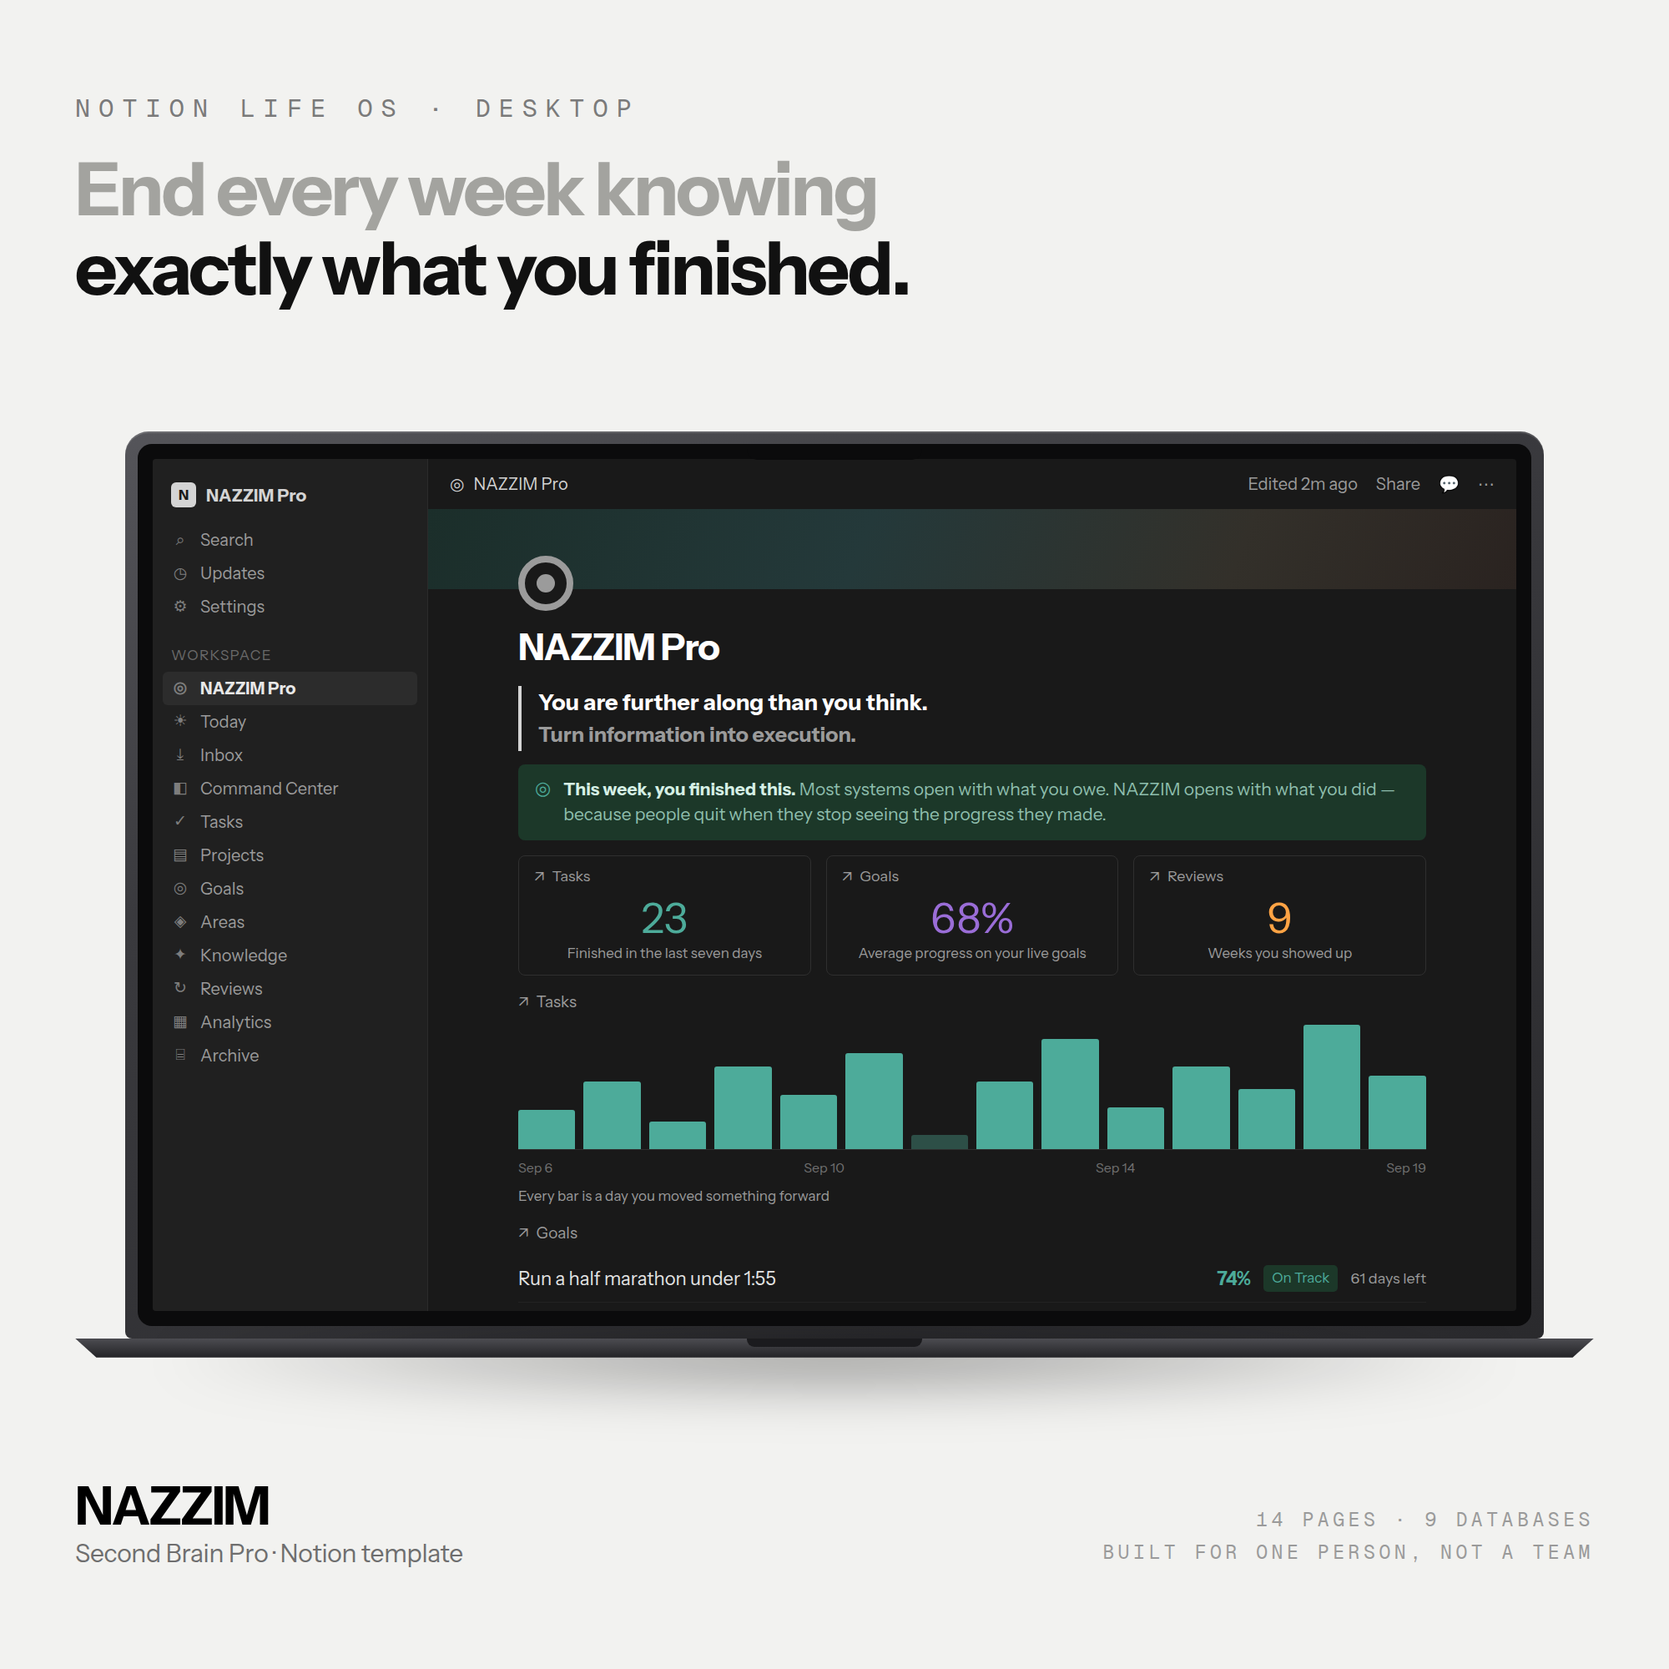
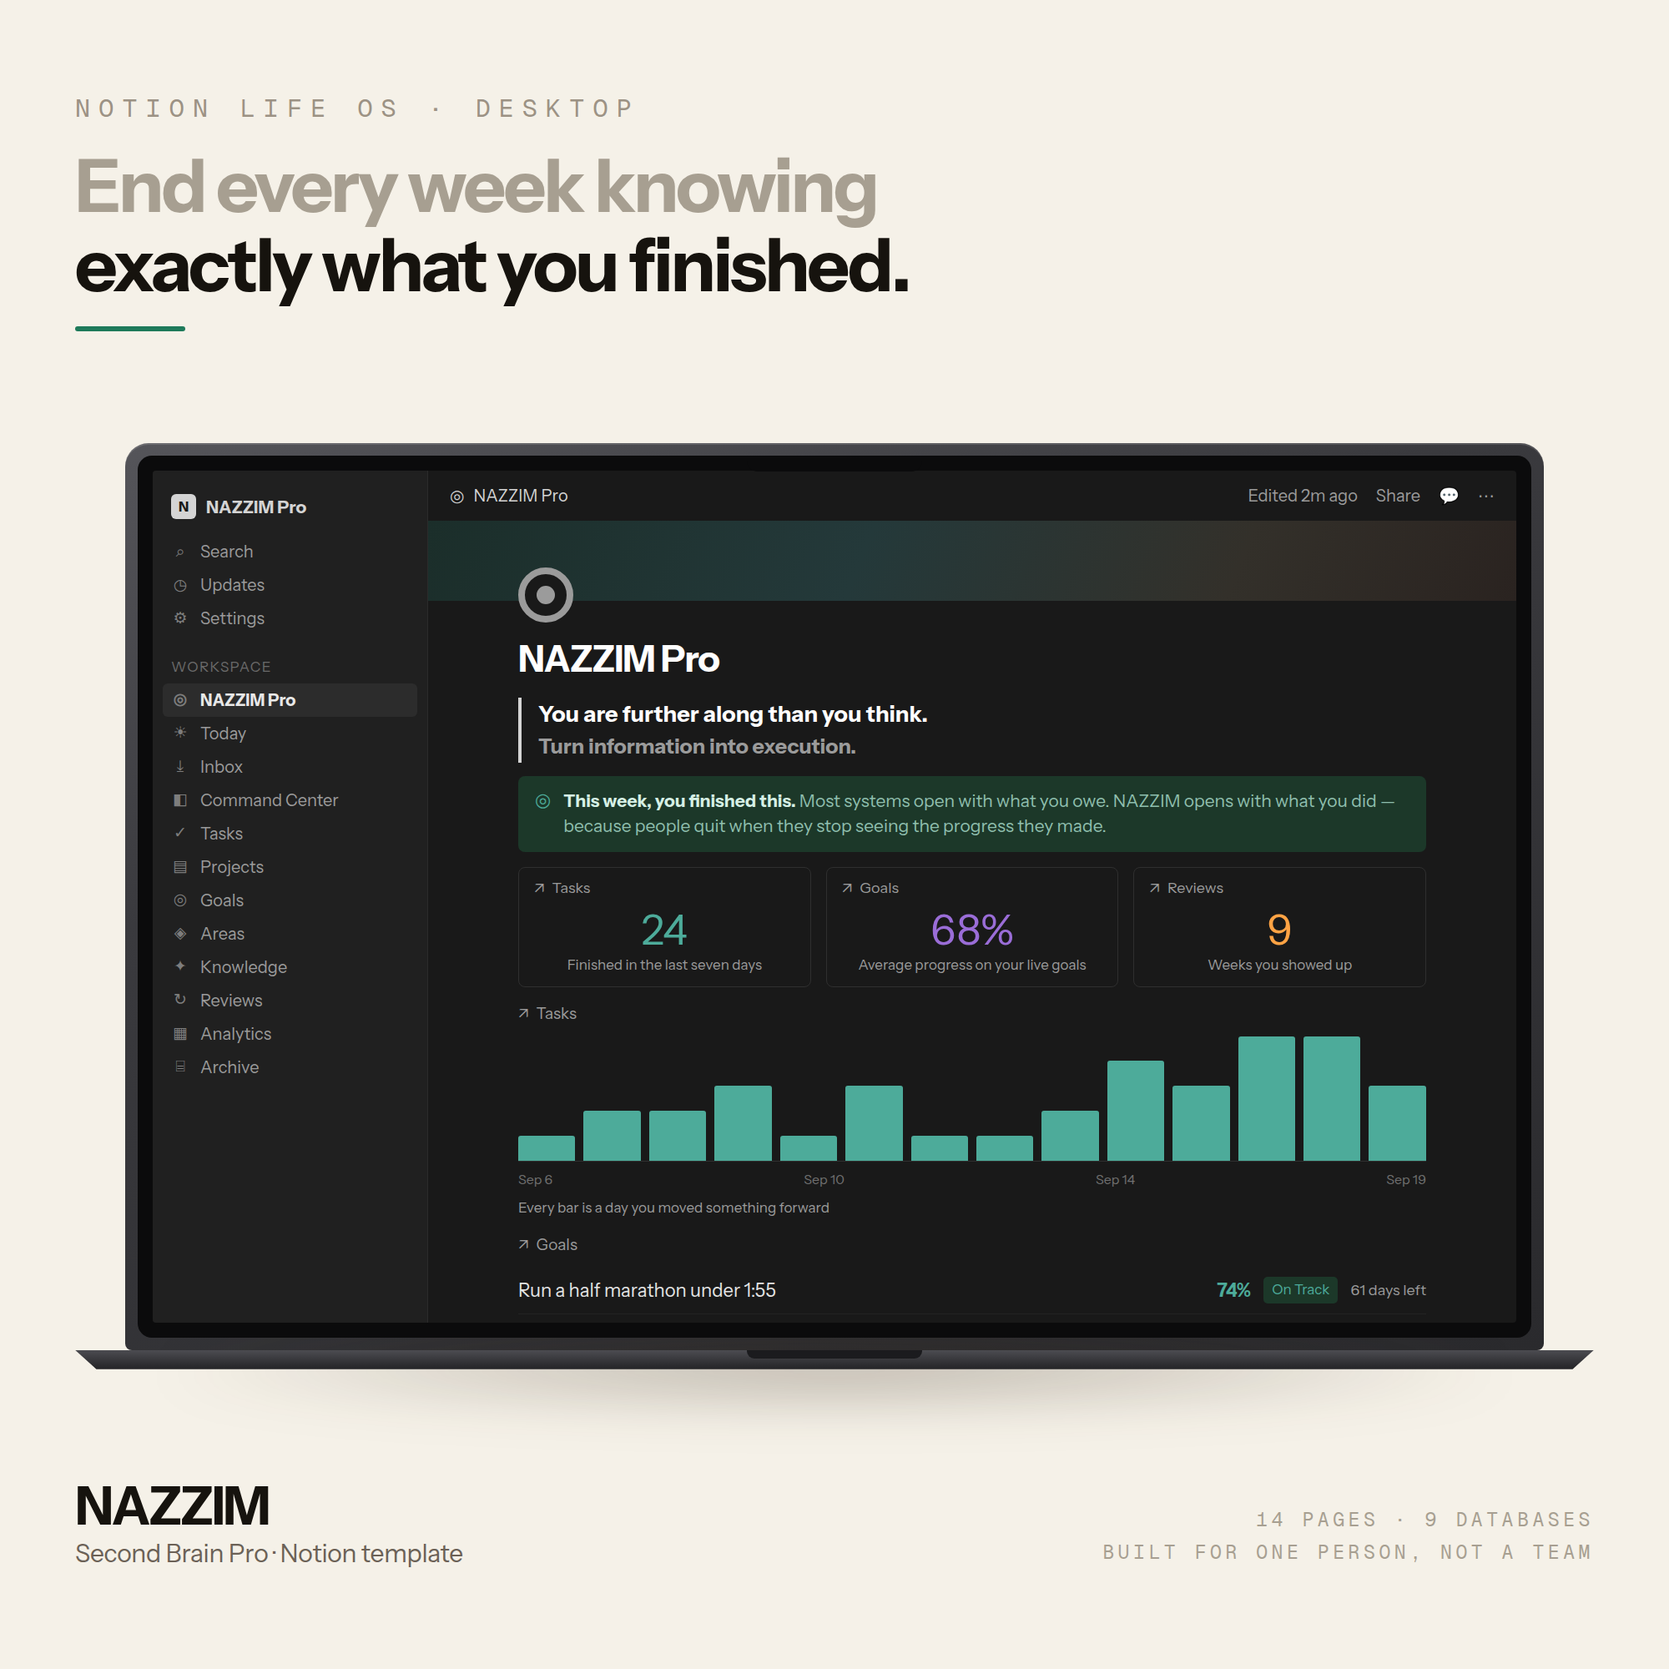
Seed the product to match the images, and warm the palette
The showcase images promised numbers the product could not show: the
databases held one completed task, one goal and six reviews, so a buyer
opening the template saw zeroes where the ad showed proof.

Data (Notion) - the product is now the source of truth, and the images
were corrected to it, not the other way round:
- 35 completed tasks seeded across Sep 6-19, one contiguous bar per day
  (1,2,2,3,1,3,1,1,2,4,3,5,5,3), telling a real two-week story: a normal
  week, then a strong one, for someone training and shipping a course.
- Two active goals at 74% and 62% (average 68%), with Start Date and
  Deadline set so Health computes to On Track rather than being asserted.
- Three more weekly reviews, filling the August gap and running to the
  present week. Nine in total.
- Measured the live view rather than assuming: "Done This Week" counts an
  eight-day window (today minus seven inclusive), so the real figure is
  24, not the 23 the image claimed. The image now reads 24.
- Hero callout says plainly that these are samples and nothing breaks
  when they are deleted.

Colour (psychology, not decoration):
- Sheet ground moved from cold #f2f2f0 to warm paper #F5F1E8. Warmth
  drives approach; cold grey reads institutional, and this is a personal
  product.
- Headline payoff in warm near-black #16130E instead of pure black. Max
  contrast is glare, not quality.
- A green rule under the headline in #1E7A5A, carrying the product's win
  colour out of the screen onto the page.
[…]

diff --git a/brand/device/3.html b/brand/device/3.html
@@ -86,6 +86,7 @@
   <div class="topblock">
     <div class="eyebrow">Notion Life OS · Desktop &amp; Mobile</div>
     <div class="hl">Most systems show what you owe.<br><b>This one shows what you did.</b></div>
+    <div class="accent"></div>
   </div>
   <div class="stage">
     <div class="rig">
@@ -137,27 +138,27 @@
                 </div>
 
                 <div class="tiles">
-                  <div class="tile"><div class="src"><span class="arr">↗</span> Tasks</div><div class="big g">23</div><div class="cap">Finished in the last seven days</div></div>
+                  <div class="tile"><div class="src"><span class="arr">↗</span> Tasks</div><div class="big g">24</div><div class="cap">Finished in the last seven days</div></div>
                   <div class="tile"><div class="src"><span class="arr">↗</span> Goals</div><div class="big p">68%</div><div class="cap">Average progress on your live goals</div></div>
                   <div class="tile"><div class="src"><span class="arr">↗</span> Reviews</div><div class="big o">9</div><div class="cap">Weeks you showed up</div></div>
                 </div>
 
                 <div class="vh"><span class="arr">↗</span> Tasks</div>
                 <div class="chart">
-                  <div class="b" style="height:31%"></div><div class="b" style="height:54%"></div>
-                  <div class="b" style="height:22%"></div><div class="b" style="height:66%"></div>
-                  <div class="b" style="height:43%"></div><div class="b" style="height:77%"></div>
-                  <div class="b dim" style="height:11%"></div><div class="b" style="height:54%"></div>
-                  <div class="b" style="height:88%"></div><div class="b" style="height:33%"></div>
-                  <div class="b" style="height:66%"></div><div class="b" style="height:48%"></div>
-                  <div class="b" style="height:100%"></div><div class="b" style="height:59%"></div>
+                  <div class="b" style="height:20%"></div><div class="b" style="height:40%"></div>
+                  <div class="b" style="height:40%"></div><div class="b" style="height:60%"></div>
+                  <div class="b" style="height:20%"></div><div class="b" style="height:60%"></div>
+                  <div class="b" style="height:20%"></div><div class="b" style="height:20%"></div>
+                  <div class="b" style="height:40%"></div><div class="b" style="height:80%"></div>
+                  <div class="b" style="height:60%"></div><div class="b" style="height:100%"></div>
+                  <div class="b" style="height:100%"></div><div class="b" style="height:60%"></div>
                 </div>
                 <div class="xax"><span>Sep 6</span><span>Sep 10</span><span>Sep 14</span><span>Sep 19</span></div>
                 <div class="ccap">Every bar is a day you moved something forward</div>
 
                 <div class="vh"><span class="arr">↗</span> Goals</div>
                 <div class="goal"><div class="gt">Run a half marathon under 1:55</div><span class="pct">74%</span><span class="chip c-grn">On Track</span><span class="dt">61 days left</span></div>
-                <div class="goal"><div class="gt">Ship the second edition of the course</div><span class="pct">52%</span><span class="chip c-grn">On Track</span><span class="dt">88 days left</span></div>
+                <div class="goal"><div class="gt">Ship the second edition of the course</div><span class="pct">62%</span><span class="chip c-grn">On Track</span><span class="dt">88 days left</span></div>
               </div>
             </div>
 
@@ -187,20 +188,20 @@
               </div>
 
               <div class="tiles">
-                <div class="tile"><div class="src"><span class="arr">↗</span> Tasks</div><div class="big g">23</div><div class="cap">Finished in the last seven days</div></div>
+                <div class="tile"><div class="src"><span class="arr">↗</span> Tasks</div><div class="big g">24</div><div class="cap">Finished in the last seven days</div></div>
                 <div class="tile"><div class="src"><span class="arr">↗</span> Goals</div><div class="big p">68%</div><div class="cap">Average progress on your live goals</div></div>
                 <div class="tile"><div class="src"><span class="arr">↗</span> Reviews</div><div class="big o">9</div><div class="cap">Weeks you showed up</div></div>
               </div>
 
               <div class="vh"><span class="arr">↗</span> Tasks</div>
               <div class="chart">
-                <div class="b" style="height:31%"></div><div class="b" style="height:54%"></div>
-                <div class="b" style="height:22%"></div><div class="b" style="height:66%"></div>
-                <div class="b" style="height:43%"></div><div class="b" style="height:77%"></div>
-                <div class="b dim" style="height:11%"></div><div class="b" style="height:54%"></div>
-                <div class="b" style="height:88%"></div><div class="b" style="height:33%"></div>
-                <div class="b" style="height:66%"></div><div class="b" style="height:48%"></div>
-                <div class="b" style="height:100%"></div><div class="b" style="height:59%"></div>
+                <div class="b" style="height:20%"></div><div class="b" style="height:40%"></div>
+                <div class="b" style="height:40%"></div><div class="b" style="height:60%"></div>
+                <div class="b" style="height:20%"></div><div class="b" style="height:60%"></div>
+                <div class="b" style="height:20%"></div><div class="b" style="height:20%"></div>
+                <div class="b" style="height:40%"></div><div class="b" style="height:80%"></div>
+                <div class="b" style="height:60%"></div><div class="b" style="height:100%"></div>
+                <div class="b" style="height:100%"></div><div class="b" style="height:60%"></div>
               </div>
               <div class="xax"><span>Sep 6</span><span>Sep 12</span><span>Sep 19</span></div>
               <div class="ccap">Every bar is a day you moved something forward</div>

diff --git a/brand/device/1.html b/brand/device/1.html
@@ -47,6 +47,7 @@
   <div class="topblock">
     <div class="eyebrow">Notion Life OS · Desktop</div>
     <div class="hl">End every week knowing<br><b>exactly what you finished.</b></div>
+    <div class="accent"></div>
   </div>
   <div class="stage">
     <div class="lap">
@@ -97,27 +98,27 @@
                 </div>
 
                 <div class="tiles">
-                  <div class="tile"><div class="src"><span class="arr">↗</span> Tasks</div><div class="big g">23</div><div class="cap">Finished in the last seven days</div></div>
+                  <div class="tile"><div class="src"><span class="arr">↗</span> Tasks</div><div class="big g">24</div><div class="cap">Finished in the last seven days</div></div>
                   <div class="tile"><div class="src"><span class="arr">↗</span> Goals</div><div class="big p">68%</div><div class="cap">Average progress on your live goals</div></div>
                   <div class="tile"><div class="src"><span class="arr">↗</span> Reviews</div><div class="big o">9</div><div class="cap">Weeks you showed up</div></div>
                 </div>
 
                 <div class="vh"><span class="arr">↗</span> Tasks</div>
                 <div class="chart">
-                  <div class="b" style="height:31%"></div><div class="b" style="height:54%"></div>
-                  <div class="b" style="height:22%"></div><div class="b" style="height:66%"></div>
-                  <div class="b" style="height:43%"></div><div class="b" style="height:77%"></div>
-                  <div class="b dim" style="height:11%"></div><div class="b" style="height:54%"></div>
-                  <div class="b" style="height:88%"></div><div class="b" style="height:33%"></div>
-                  <div class="b" style="height:66%"></div><div class="b" style="height:48%"></div>
-                  <div class="b" style="height:100%"></div><div class="b" style="height:59%"></div>
+                  <div class="b" style="height:20%"></div><div class="b" style="height:40%"></div>
+                  <div class="b" style="height:40%"></div><div class="b" style="height:60%"></div>
+                  <div class="b" style="height:20%"></div><div class="b" style="height:60%"></div>
+                  <div class="b" style="height:20%"></div><div class="b" style="height:20%"></div>
+                  <div class="b" style="height:40%"></div><div class="b" style="height:80%"></div>
+                  <div class="b" style="height:60%"></div><div class="b" style="height:100%"></div>
+                  <div class="b" style="height:100%"></div><div class="b" style="height:60%"></div>
                 </div>
                 <div class="xax"><span>Sep 6</span><span>Sep 10</span><span>Sep 14</span><span>Sep 19</span></div>
                 <div class="ccap">Every bar is a day you moved something forward</div>
 
                 <div class="vh"><span class="arr">↗</span> Goals</div>
                 <div class="goal"><div class="gt">Run a half marathon under 1:55</div><span class="pct">74%</span><span class="chip c-grn">On Track</span><span class="dt">61 days left</span></div>
-                <div class="goal"><div class="gt">Ship the second edition of the course</div><span class="pct">52%</span><span class="chip c-grn">On Track</span><span class="dt">88 days left</span></div>
+                <div class="goal"><div class="gt">Ship the second edition of the course</div><span class="pct">62%</span><span class="chip c-grn">On Track</span><span class="dt">88 days left</span></div>
               </div>
             </div>
 

diff --git a/brand/device/_d.css b/brand/device/_d.css
@@ -3,14 +3,14 @@
 @font-face{font-family:GM;src:url('file:///mnt/skills/examples/canvas-design/canvas-fonts/GeistMono-Regular.ttf');font-weight:400}
 *{margin:0;padding:0;box-sizing:border-box}
 html,body{width:2000px;height:2000px;overflow:hidden}
-body{font-family:IS,sans-serif;-webkit-font-smoothing:antialiased;background:#f2f2f0;color:#000}
+body{font-family:IS,sans-serif;-webkit-font-smoothing:antialiased;background:#F5F1E8;color:#16130E}
 .sheet{width:2000px;height:2000px;padding:110px 90px 120px;display:flex;flex-direction:column;justify-content:space-between}
-.eyebrow{font-family:GM;font-size:30px;letter-spacing:.34em;text-transform:uppercase;color:#7a7a7a}
+.eyebrow{font-family:GM;font-size:30px;letter-spacing:.34em;text-transform:uppercase;color:#9C9284}
 .stage{flex:1;display:flex;align-items:center;justify-content:center;position:relative}
 .foot{display:flex;align-items:flex-end;justify-content:space-between}
 .wordmark{font-weight:700;font-size:92px;letter-spacing:-.04em;line-height:.95}
-.tag{font-size:40px;color:#6e6e6e;letter-spacing:-.01em;margin-top:14px}
-.meta{font-family:GM;font-size:26px;letter-spacing:.2em;text-transform:uppercase;color:#9a9a9a;text-align:right;line-height:1.7}
+.tag{font-size:40px;color:#6B6156;letter-spacing:-.01em;margin-top:14px}
+.meta{font-family:GM;font-size:26px;letter-spacing:.2em;text-transform:uppercase;color:#A79F91;text-align:right;line-height:1.7}
 
 /* ---------- Notion dark UI ---------- */
 .ui{background:#191919;color:#d4d4d4;font-size:26px;line-height:1.5;padding:46px 56px 0}
@@ -57,7 +57,7 @@ body{font-family:IS,sans-serif;-webkit-font-smoothing:antialiased;background:#f2
 
 /* ---------- device frames ---------- */
 .shadow{position:absolute;bottom:-46px;left:6%;right:6%;height:90px;border-radius:50%;
-  background:radial-gradient(ellipse at center,rgba(0,0,0,.42) 0%,rgba(0,0,0,.20) 45%,rgba(0,0,0,0) 74%);filter:blur(30px)}
+  background:radial-gradient(ellipse at center,rgba(48,34,18,.34) 0%,rgba(48,34,18,.16) 45%,rgba(48,34,18,0) 74%);filter:blur(30px)}
 
 /* laptop */
 .lap{position:relative;display:flex;flex-direction:column;align-items:center}
@@ -101,9 +101,10 @@ body{font-family:IS,sans-serif;-webkit-font-smoothing:antialiased;background:#f2
 .wifi{display:block}
 
 /* ---------- marketing frame ---------- */
-.topblock{display:flex;flex-direction:column;gap:30px}
-.hl{font-size:88px;font-weight:700;letter-spacing:-.035em;line-height:1.08;color:#a3a39f;max-width:1560px}
-.hl b{color:#111;font-weight:700}
+.topblock{display:flex;flex-direction:column;gap:26px}
+.accent{height:6px;width:132px;background:#1E7A5A;border-radius:3px}
+.hl{font-size:88px;font-weight:700;letter-spacing:-.035em;line-height:1.08;color:#A79F91;max-width:1560px}
+.hl b{color:#16130E;font-weight:700}
 .foot .wordmark{font-size:64px}
 .foot .tag{font-size:30px;margin-top:8px}
 .foot .meta{font-size:23px}

diff --git a/brand/device/2.html b/brand/device/2.html
@@ -40,6 +40,7 @@
   <div class="topblock">
     <div class="eyebrow">Notion Life OS · Mobile</div>
     <div class="hl">The first thing you see<br><b>is what you did.</b></div>
+    <div class="accent"></div>
   </div>
   <div class="stage">
     <div class="ph">
@@ -63,20 +64,20 @@
               </div>
 
               <div class="tiles">
-                <div class="tile"><div class="src"><span class="arr">↗</span> Tasks</div><div class="big g">23</div><div class="cap">Finished in the last seven days</div></div>
+                <div class="tile"><div class="src"><span class="arr">↗</span> Tasks</div><div class="big g">24</div><div class="cap">Finished in the last seven days</div></div>
                 <div class="tile"><div class="src"><span class="arr">↗</span> Goals</div><div class="big p">68%</div><div class="cap">Average progress on your live goals</div></div>
                 <div class="tile"><div class="src"><span class="arr">↗</span> Reviews</div><div class="big o">9</div><div class="cap">Weeks you showed up</div></div>
               </div>
 
               <div class="vh"><span class="arr">↗</span> Tasks</div>
               <div class="chart">
-                <div class="b" style="height:31%"></div><div class="b" style="height:54%"></div>
-                <div class="b" style="height:22%"></div><div class="b" style="height:66%"></div>
-                <div class="b" style="height:43%"></div><div class="b" style="height:77%"></div>
-                <div class="b dim" style="height:11%"></div><div class="b" style="height:54%"></div>
-                <div class="b" style="height:88%"></div><div class="b" style="height:33%"></div>
-                <div class="b" style="height:66%"></div><div class="b" style="height:48%"></div>
-                <div class="b" style="height:100%"></div><div class="b" style="height:59%"></div>
+                <div class="b" style="height:20%"></div><div class="b" style="height:40%"></div>
+                <div class="b" style="height:40%"></div><div class="b" style="height:60%"></div>
+                <div class="b" style="height:20%"></div><div class="b" style="height:60%"></div>
+                <div class="b" style="height:20%"></div><div class="b" style="height:20%"></div>
+                <div class="b" style="height:40%"></div><div class="b" style="height:80%"></div>
+                <div class="b" style="height:60%"></div><div class="b" style="height:100%"></div>
+                <div class="b" style="height:100%"></div><div class="b" style="height:60%"></div>
               </div>
               <div class="xax"><span>Sep 6</span><span>Sep 12</span><span>Sep 19</span></div>
               <div class="ccap">Every bar is a day you moved something forward</div>

diff --git a/brand/device/build3.py b/brand/device/build3.py
@@ -50,6 +50,7 @@ html = f'''<link rel="stylesheet" href="_d.css">
   <div class="topblock">
     <div class="eyebrow">Notion Life OS · Desktop &amp; Mobile</div>
     <div class="hl">Most systems show what you owe.<br><b>This one shows what you did.</b></div>
+    <div class="accent"></div>
   </div>
   <div class="stage">
     <div class="rig">
